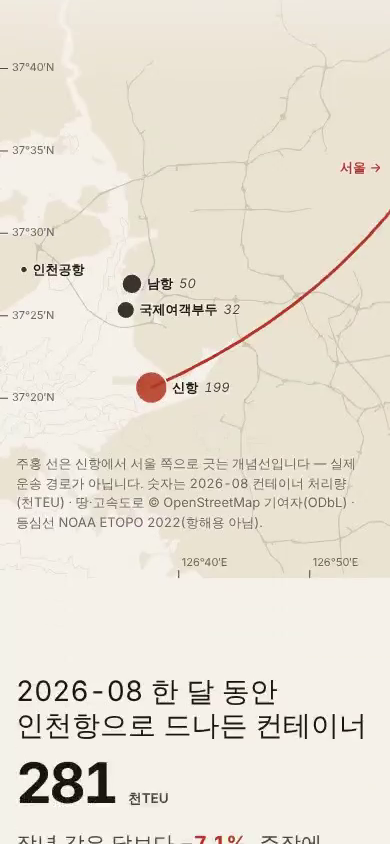
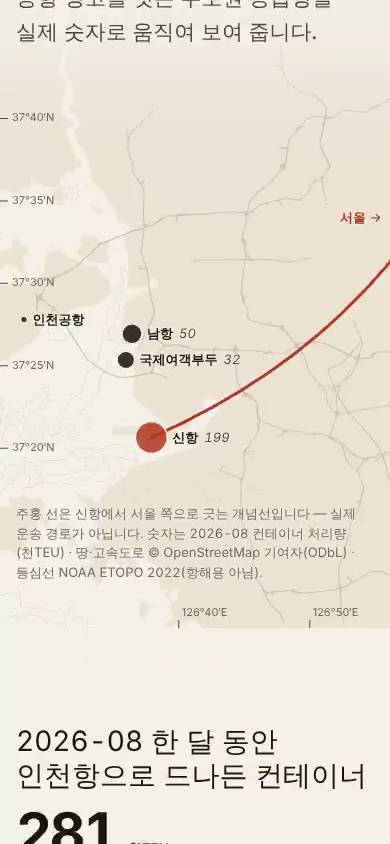
검수 그림 갱신 — 62fb813(수요예측 해도화 · 선박 인천 주인공) 영상 중간 프레임 24장 · 첫 화면 12장 · 두 지면 전체 4장
Claude-Session: https://claude.ai/code/session_01L59oEoiMW7KHoJRFFkcN4Q

diff --git a/README.md b/README.md
@@ -2,6 +2,7 @@
 
 - `frames/` — 조작 영상마다 움직이는 중간 프레임 2장(영상 길이의 35% · 65%). 채팅 검수 ③: GitHub 화면은 mp4 를 못 튼다.
 - `first/` — 면마다 첫 화면(390 세로 · 1440 가로).
-- 만든 명령: `node tests/capture/record-ds.mjs`(공개 빌드 · 로컬). 지금 그림의 페이지 코드는 design-lab run 38554224778 의 커밋 aaf2ed0 과 같다(그 앞 판은 afee798).
+- 만든 명령: `node tests/capture/record-ds.mjs`(공개 빌드 · 로컬). 지금 그림의 페이지 코드는 커밋 62fb813 과 같다(앞 판: aaf2ed0 · afee798).
+- `full/` — 이번에 다시 손본 두 지면(수요예측 · 선박 리플레이)의 전체 페이지(두 폭).
 - mp4 원본·전체 페이지 캡처는 그 run 의 산출물 `design-ours`(14일 보관).
 - 이 브랜치 첫 커밋(80fe125)은 orphan 정리 실패로 저장소 트리 사본이 들어갔다 — 둘째 커밋이 그림만 남긴다.
